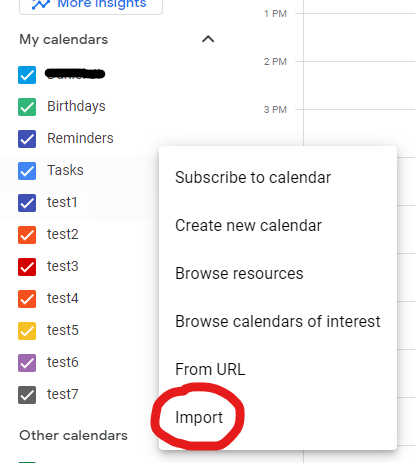
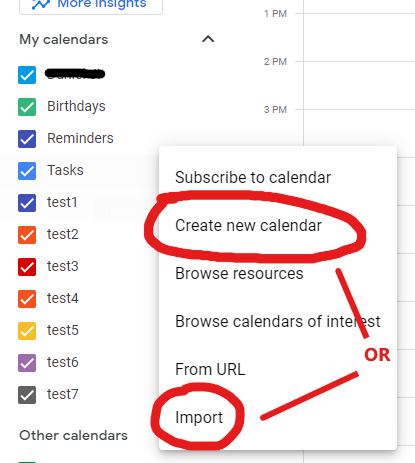
instructions improvements

diff --git a/frontend/src/App.js b/frontend/src/App.js
@@ -10,6 +10,8 @@ import './App.scss';
 import locateImportImg from './assets/images/locate-import.png';
 import importButtonImg from './assets/images/import-button.png';
 import importCalImg from './assets/images/import-cal.png';
+import saveSafari from './assets/images/save-safari.png';
+import saveChrome from './assets/images/save-chrome.png';
 
 export class App extends Component {
 	constructor(props) {
@@ -143,6 +145,7 @@ export class App extends Component {
 					finished = true;
 					this.setStatus("Done!")
 					this.setState({ scheduleData: JSON.parse(res.data), scheduleICS: value }, callback)
+					document.getElementById("next-steps-title").scrollIntoView({ behavior: 'smooth', block: 'center', inline: 'center' });
 				}).catch(err => {
 					finished = true;
 					this.setState({ scheduleData: undefined, scheduleICS: undefined })
@@ -201,7 +204,7 @@ export class App extends Component {
 		return (
 			<div className="App">
 				<h1 className="mt-5 text-center">UCSD WebReg Calendar App</h1>
-				<div className="mt-4 footnote text-center w-100" id="footnote">
+				<div className="mt-4 px-3 footnote text-center w-100" id="footnote">
 					<p>Turn your WebReg schedule into an .ics file that can be imported into your calendar (Google Calendar, Apple Calendar, etc.)</p>
 					<p><strong>Privacy is our utmost concern. No uploaded files or personal information is ever shared or saved.</strong></p>
 				</div>
@@ -212,9 +215,19 @@ export class App extends Component {
 							Go to your WebReg schedule (<a href="https://act.ucsd.edu/webreg2" rel="noreferrer" target="_blank">https://act.ucsd.edu/webreg2</a>) and select a term / quarter.
 						</li>
 						<li>
-							Right click on the page and "Save As..." <strong>Webpage, Complete (Chrome, Firefox) OR Web Archive (Safari)</strong>.<br />  (It should save a file called webregMain.html or webregMain.webarchive or something similar).
+							Right click on the page and "Save as..." or "Save Page As..." with the format / type as <strong>Webpage, Complete (Chrome, Firefox) OR Web Archive (Safari)</strong>.<br />  (It should save a file called webregMain.html or webregMain.webarchive or something similar).
 						</li>
 					</ol>
+					<div className="d-flex space-evenly flex-wrap my-4 ">
+						<div className="d-flex flex-column align-items-center mb-3 adaptive-img">
+							<h5>Chrome, Firefox:</h5>
+							<img className='p-2' style={{ maxWidth: '95%', border: '3px solid black' }} src={saveChrome} alt="Saving WebReg page in Chrome" />
+						</div>
+						<div className="d-flex flex-column align-items-center mb-3 adaptive-img">
+							<h5>Safari:</h5>
+							<img className='p-2' style={{ maxWidth: '95%', border: '3px solid black' }} src={saveSafari} alt="Saving WebReg page in Safari" />
+						</div>
+					</div>
 				</div>
 				<div className="mb-2 d-flex flex-column content">
 					<h4 className="mb-3">Upload your saved WebReg file:</h4>
@@ -244,12 +257,12 @@ export class App extends Component {
 					<strong>Note:</strong> Special Summer Session dates are not supported yet, because of their variable start and end dates.
 				</p>
 				<div className="my-4 content" id="next-steps">
-					<h4 className="mb-4">Next Steps - Adding Downloaded (ICS) Schedule to Google Calendar</h4>
+					<h4 className="mb-4" id="next-steps-title">Next Steps - Adding Downloaded (ICS) Schedule to Google Calendar</h4>
 					<p>To import your downloaded schedule (a .ics file) into Google Calendar, follow these steps:</p>
 					<ol>
 						<li>Locate 'Other calendars' on the left sidebar of your Google Calendar, near the bottom. <strong>Press the plus sign.</strong></li>
 						<img className="my-3" style={{ maxHeight: '80vh' }} src={locateImportImg} alt="Locating the import button" /><br />
-						<li className="my-4">Select 'Import'.</li>
+						<li className="my-4">Select 'Import'. Alternatively, select 'Create new calendar' to create a new calendar for your schedule (and then select 'Import' after).</li>
 						<img className="my-3" style={{ maxHeight: '40vh' }} src={importButtonImg} alt="The import button" /><br />
 						<li>In the new window, select the ICS file you downloaded. </li>
 						<li>Select the calendar you would like to import it into.</li>

diff --git a/frontend/src/App.scss b/frontend/src/App.scss
@@ -51,3 +51,13 @@ html, body {
               user-select: none; /* Non-prefixed version, currently
                                     supported by Chrome, Edge, Opera and Firefox */
   }
+
+.adaptive-img {
+    width: 50%;
+}
+
+@media (max-width: 1280px) {
+    .adaptive-img {
+        width: 100%;
+    }
+}
